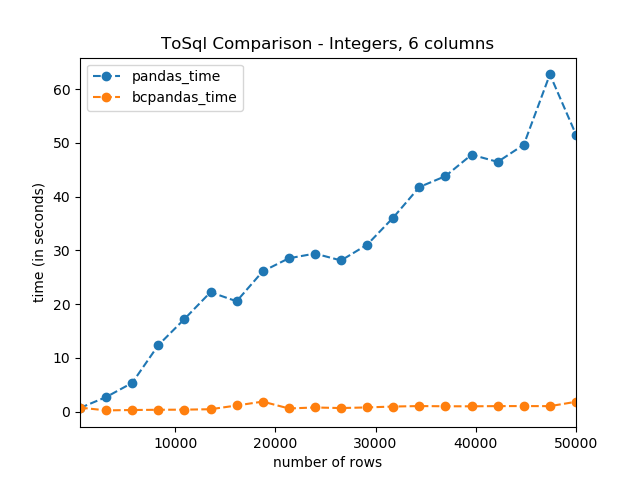
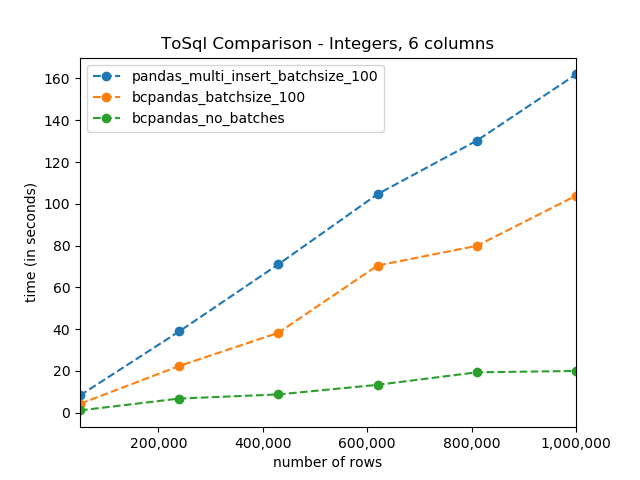
updated benchmarks with method='multi' and batch_size, still faster

diff --git a/benchmarks/benchmark.py b/benchmarks/benchmark.py
@@ -3,7 +3,7 @@ import json
 import platform
 from subprocess import PIPE, run
 import sys
-from typing import List, Union
+from typing import Dict, List, Union
 
 from bcpandas import SqlCreds, to_sql
 from bcpandas.tests import conftest as cf
@@ -107,40 +107,60 @@ def teardown(gen_docker_db):
         pass
 
 
-def run_benchmark(df: pd.DataFrame, creds: SqlCreds):
-    tbl_name = "tbl_benchmark"
+def run_benchmark(df: pd.DataFrame, creds: SqlCreds) -> Dict[str, float]:
+    tbl_pd = "tbl_benchmark_pd"
+    tbl_bcp = "tbl_benchmark_bcp"
+    tbl_bcp2 = "tbl_benchmark_bcp2"
+    chunk_size = 100
 
     # pandas
     print("starting pandas")
     t1 = Timer(name="pandas")
     t1.start()
-    df.to_sql(name=tbl_name, con=creds.engine, if_exists="replace")
+    df.to_sql(
+        name=tbl_pd, con=creds.engine, if_exists="replace", method="multi", chunksize=chunk_size
+    )
     pd_time = t1.stop()
 
     # bcp
-    print("starting bcp")
+    print("starting bcp with batch size")
     t2 = Timer(name="bcp")
     t2.start()
-    to_sql(df=df, table_name=tbl_name, creds=creds, if_exists="replace")
+    to_sql(df=df, table_name=tbl_bcp, creds=creds, if_exists="replace", batch_size=chunk_size)
     bcp_time = t2.stop()
 
-    return pd_time, bcp_time
+    print("starting bcp no batch size")
+    t3 = Timer(name="bcp")
+    t3.start()
+    to_sql(df=df, table_name=tbl_bcp2, creds=creds, if_exists="replace")
+    bcp2_time = t3.stop()
+
+    return {
+        f"pandas_multi_insert_batchsize_{chunk_size}": pd_time,
+        f"bcpandas_batchsize_{chunk_size}": bcp_time,
+        "bcpandas_no_batches": bcp2_time,
+    }
 
 
 def main():
     """
 
     """
-    # run benchmarks
-    docker_generator, creds = setup()
-    num_cols = 6
-    results = []
-    for n in np.linspace(500, 50000, num=20):
-        num_rows = int(n)
-        df = pd.DataFrame(data=np.ndarray(shape=(num_rows, num_cols), dtype=int))
-        pd_time, bcp_time = run_benchmark(df=df, creds=creds)
-        results.append({"num_rows": num_rows, "pandas_time": pd_time, "bcpandas_time": bcp_time})
-    teardown(docker_generator)
+    try:
+        # run benchmarks
+        docker_generator, creds = setup()
+        num_cols = 6
+        results = []
+        for n in np.linspace(50_000, 1_000_000, num=6):
+            num_rows = int(n)
+            df = pd.DataFrame(
+                data=np.ndarray(shape=(num_rows, num_cols), dtype=int),
+                columns=[f"col-{x}" for x in range(num_cols)],
+            )
+            _results = run_benchmark(df=df, creds=creds)
+            results.append({"num_rows": num_rows, **_results})
+    finally:
+        teardown(docker_generator)
 
     # file names
     data_file = "benchmark_data.json"
@@ -158,6 +178,8 @@ def main():
     )
     plot.set_xlabel("number of rows")
     plot.set_ylabel("time (in seconds)")
+    # https://stackoverflow.com/a/44444489/6067848
+    plot.set_xticklabels([f"{x:,.0f}" for x in plot.get_xticks()])
     plot.get_figure().savefig(plot_file)
     env_info = gather_env_info()
     with open(env_file, "wt") as file:

diff --git a/bcpandas/tests/conftest.py b/bcpandas/tests/conftest.py
@@ -26,7 +26,7 @@ else:
 
 _pwd = "MyBigSQLPassword!!!"
 _db_name = "db_bcpandas"
-_docker_startup = 18  # seconds to wait to give the container time to start
+_docker_startup = 20  # seconds to wait to give the container time to start
 
 
 @pytest.fixture(scope="session")

diff --git a/README.md b/README.md
@@ -74,6 +74,9 @@ This is very much a work in progress.
 ![benchmark graph](benchmarks/benchmark.png)
 
 
+### What about the new Pandas [`method='multi'`](https://pandas.pydata.org/pandas-docs/stable/user_guide/io.html#io-sql-method)?
+It has some drawbacks. First, because SQL Server can only accept up to 2100 parameters in a query, you are forced to set the `chunksize` parameter to a very small number for it to work. Also, it is still slower. See [here](https://stackoverflow.com/questions/50689082/to-sql-pyodbc-count-field-incorrect-or-syntax-error) and [here](https://stackoverflow.com/questions/50689082/to-sql-pyodbc-count-field-incorrect-or-syntax-error) for more discussion on this, and the recommendation to use a bulk insert tool such as BCP. SQL Server simply didn't design the regular `INSERT` statement to support huge amounts of data.
+
 ## Requirements
 ### Database
 Any version of Microsoft SQL Server. Can be installed on-prem, in the cloud, on a VM, or the Azure SQL Database/Data Warehouse versions.
